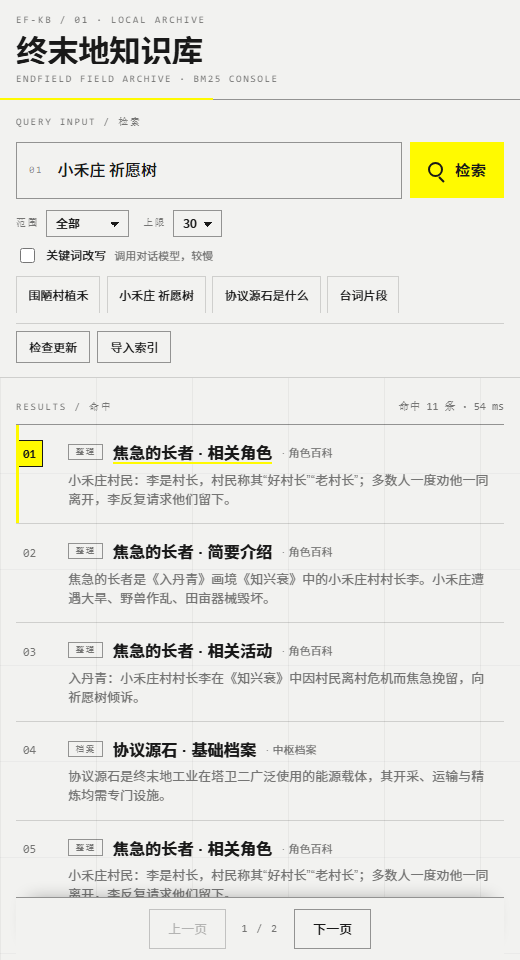
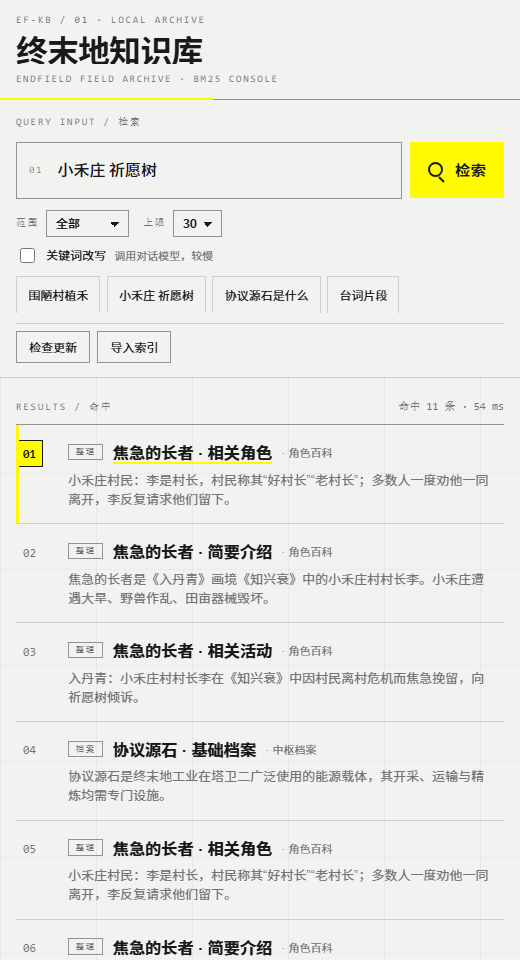
fix: pager back in flow at list end

diff --git a/views/kb-console/style.css b/views/kb-console/style.css
@@ -463,17 +463,13 @@ body {
 }
 
 .ark-pager {
-  position: sticky;
-  inset-block-end: 0;
-  z-index: 3;
   display: flex;
   align-items: center;
   justify-content: center;
   gap: 1rem;
   margin-block-start: 0.75rem;
-  padding-block: 0.65rem;
+  padding-block-start: 0.65rem;
   border-block-start: 1px solid var(--ark-rule-strong);
-  background: var(--ark-paper);
 }
 
 .ark-pager[hidden] {
@@ -826,7 +822,6 @@ body {
 
   .ark-pager {
     margin-block-start: 0.5rem;
-    box-shadow: 0 -10px 18px -14px color-mix(in srgb, var(--ark-ink) 45%, transparent);
   }
 
   .ark-topbar {

diff --git a/README.md b/README.md
@@ -143,7 +143,7 @@ zmd 帮助
 - **范围**：全部 / 剧情原文 / 中枢档案 / 整理资料 / 角色资料。切换即用当前查询重跑
 - **上限**：10 / 20 / 30 / 50，默认 30；实际返回仍受相对分数阈值约束
 
-结果按 **10 条一页** 分页。翻页条只在真的有多页时出现：滚动时贴在结果栏下沿，滚到结果末尾就落回列表下方，不会盖住页脚。
+结果按 **10 条一页** 分页。翻页条只在真的有多页时出现，排在列表最后一条下面，不悬浮、不遮挡内容。
 
 版面是左右两块：左边检索与结果，右边当前选中的正文。**整页随内容向下滚动**，结果列表与正文都不做内部滚动条。
 
